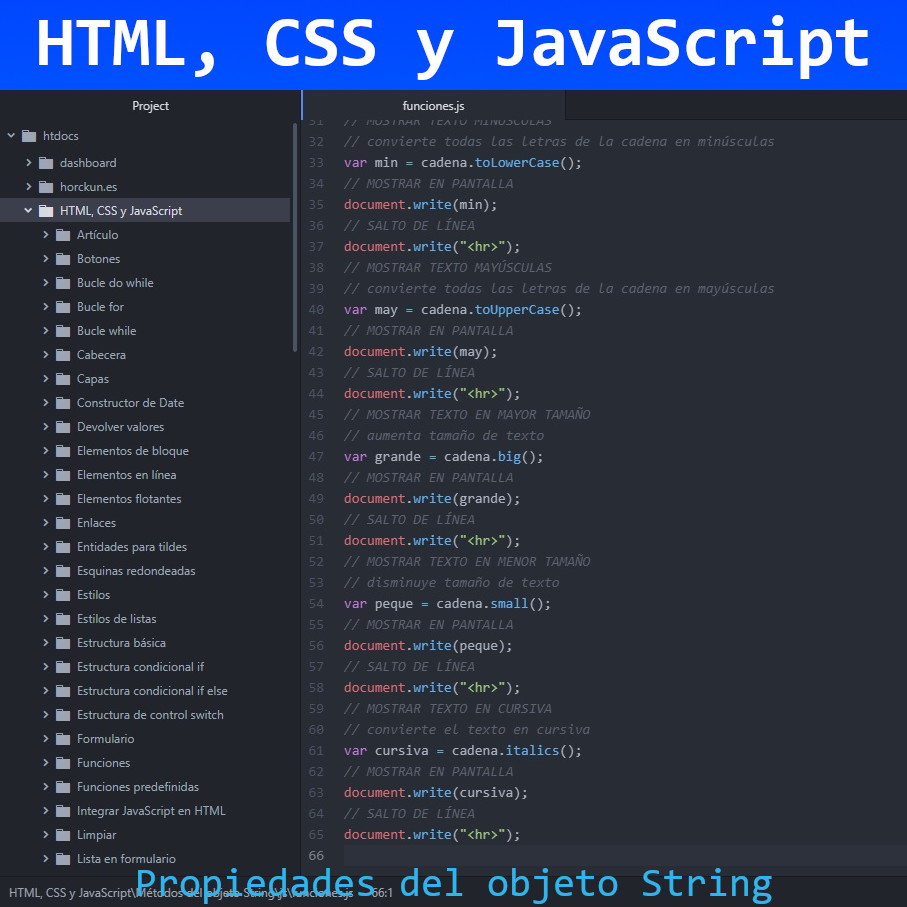
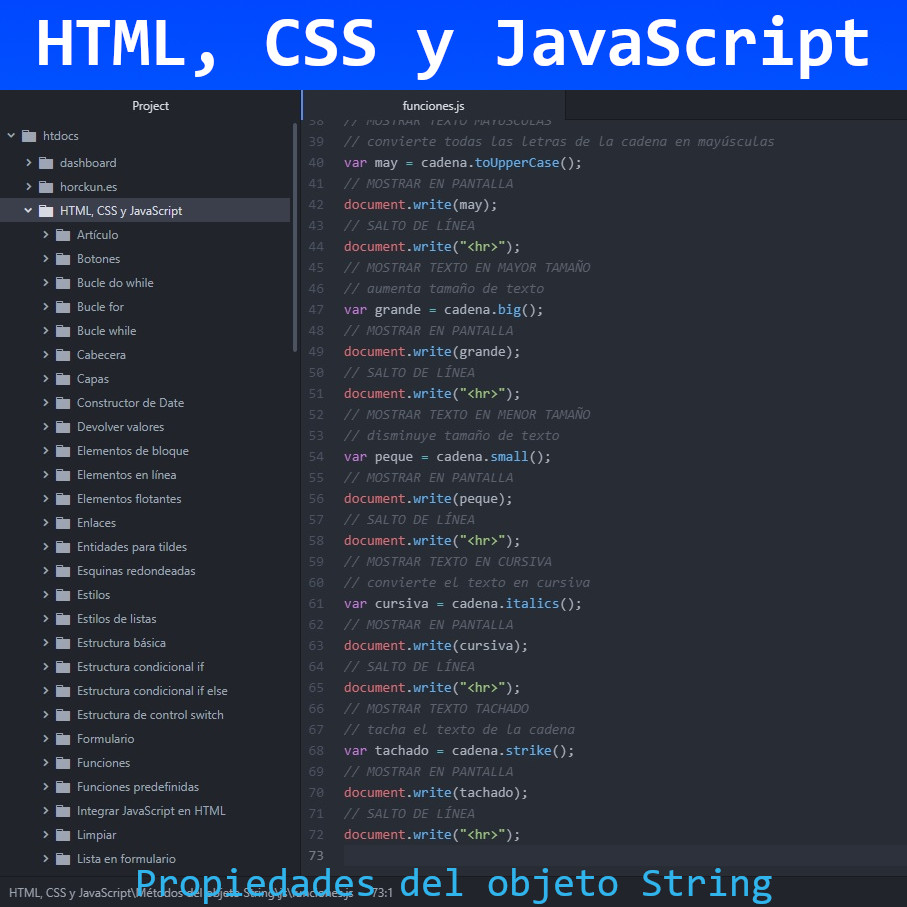
Métodos del objeto String
Métodos del objeto String en JavaScript

diff --git a/HTML, CSS y JavaScript/Métodos del objeto String/js/funciones.js b/HTML, CSS y JavaScript/Métodos del objeto String/js/funciones.js
@@ -63,3 +63,10 @@ var cursiva = cadena.italics();
 document.write(cursiva);
 // SALTO DE LÍNEA
 document.write("<hr>");
+// MOSTRAR TEXTO TACHADO
+// tacha el texto de la cadena
+var tachado = cadena.strike();
+// MOSTRAR EN PANTALLA
+document.write(tachado);
+// SALTO DE LÍNEA
+document.write("<hr>");
